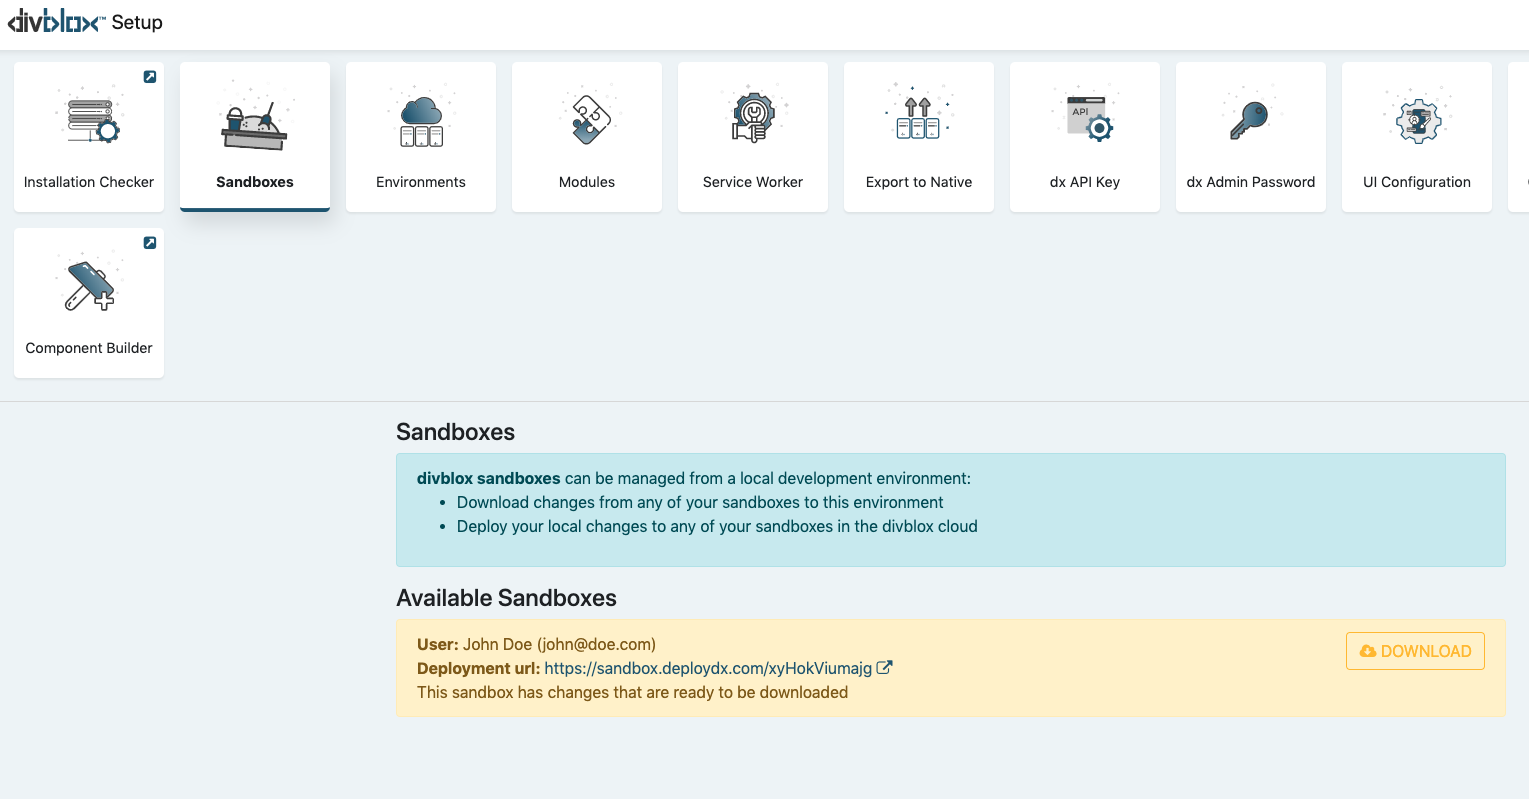
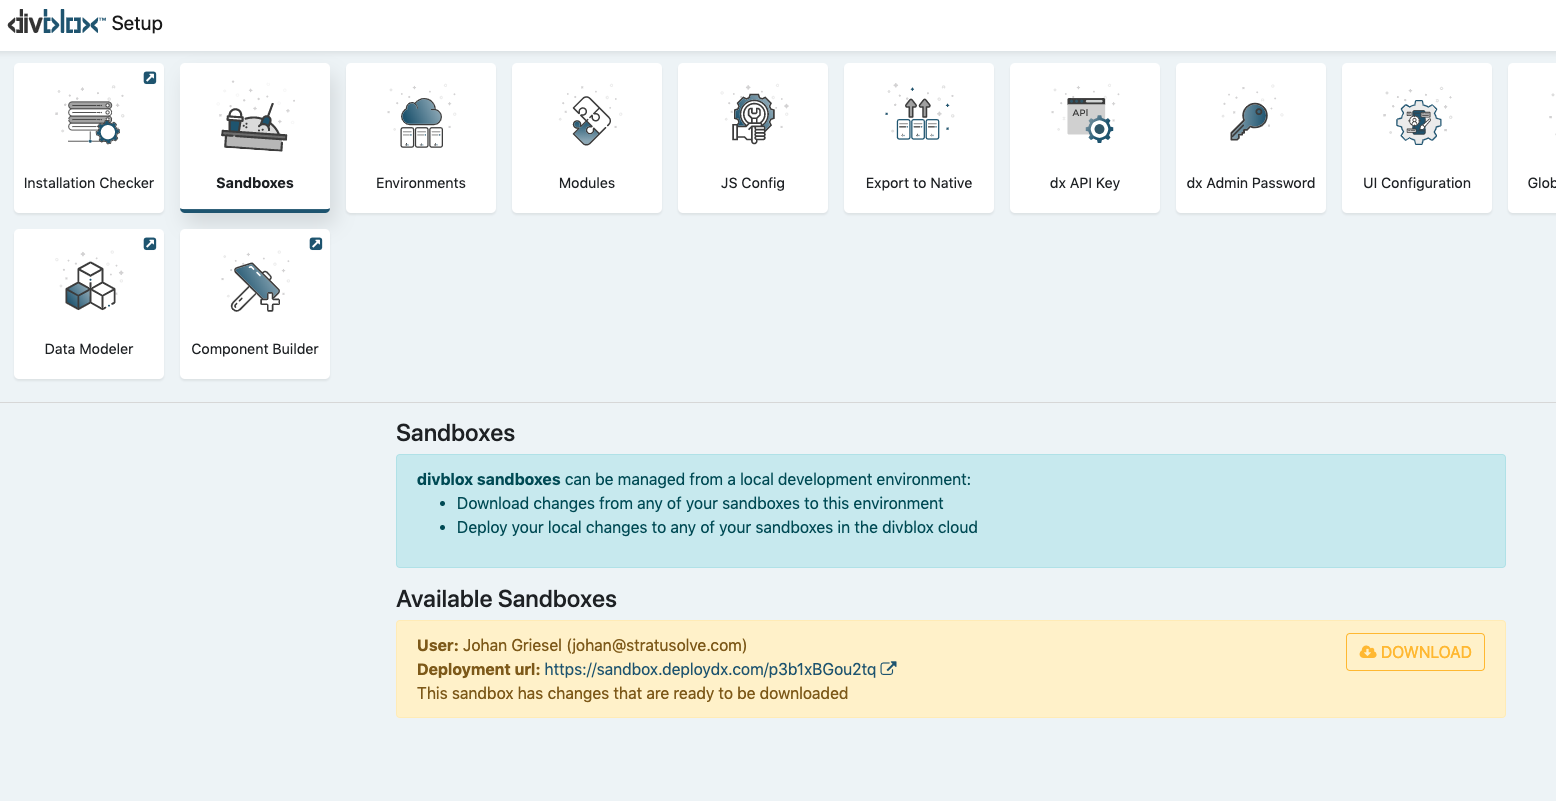
Updated assets

diff --git a/component-builder.md b/component-builder.md
@@ -128,7 +128,9 @@ class DivbloxDomBaseComponent {
 		this.component_success = false;
 		this.sub_component_definitions = {};
 		this.sub_component_objects = [];
+		this.sub_component_loaded_count = 0;
 		this.allowed_access_array = [];
+		this.is_loading = false;
 	}
 	loadPrerequisites(success_callback,fail_callback) {
 		if (typeof success_callback !== "function") {
@@ -139,7 +141,7 @@ class DivbloxDomBaseComponent {
 		}
 		success_callback();
 	}
-	on_component_loaded(confirm_success) {
+	on_component_loaded(confirm_success,callback) {
 		if (isNative()) {
 			if (!this.supports_native) {
 				this.handleComponentError("Component "+this.uid+" does not support native.");
@@ -154,9 +156,13 @@ class DivbloxDomBaseComponent {
 		if (typeof confirm_success === "undefined") {
 			confirm_success = true;
 		}
+		if (typeof callback !== "function") {
+			callback = function(){};
+		}
 		this.loadPrerequisites(function() {
+			callback();
 			dxCheckCurrentUserRole(this.allowed_access_array,function() {
-				this.handleComponentError("Access denied");
+				this.handleComponentAccessError("Access denied");
 			}.bind(this), function() {
 				if (confirm_success) {
 					this.handleComponentSuccess();
@@ -164,23 +170,39 @@ class DivbloxDomBaseComponent {
 				this.registerDomEvents();
 				this.initCustomFunctions();
 				// Load additional components here
-				let sub_component_definition_keys = Object.keys(this.sub_component_definitions);
-				sub_component_definition_keys.forEach(function(sub_component_definition_key) {
-					let sub_component_definition = this.sub_component_definitions[sub_component_definition_key];
-					loadComponent(sub_component_definition.component_load_path,this.uid,sub_component_definition.parent_element,sub_component_definition.loading_arguments,false,false,this.subComponentLoadedCallBack.bind(this));
-				}.bind(this));
-				this.reset();
+				this.loadSubComponent();
+				if (checkComponentBuilderActive()) {
+					setTimeout(function() {
+						//JGL: Some components might not remove their loading state if they do not receive
+						// initialization inputs. When we are in the component builder, we want to override this
+						if (this.is_loading) {
+							dxLog("Removing loading state if "+this.getComponentName()+" for component builder");
+							this.removeLoadingState();
+						}
+					}.bind(this),1000);
+				}
 			}.bind(this));
 		}.bind(this),function () {
 			this.handleComponentError("Error loading component dependencies");
 		}.bind(this));
 	}
 	reset(inputs) {
-		dxLog("Reset for "+this.getComponentName()+" not implemented");
+		this.resetSubComponents(inputs);
 	}
-	resetSubComponents() {
+	setLoadingState() {
+		this.is_loading = true;
+		$("#"+this.uid+"_ComponentContent").hide();
+		$("#"+this.uid+"_ComponentPlaceholder").show();
+		$("#"+this.uid+"_ComponentFeedback").html('');
+	}
+	removeLoadingState() {
+		this.is_loading = false;
+		$("#"+this.uid+"_ComponentContent").show();
+		$("#"+this.uid+"_ComponentPlaceholder").hide();
+	}
+	resetSubComponents(inputs) {
 		this.sub_component_objects.forEach(function(component) {
-			component.reset();
+			component.reset(inputs);
 		}.bind(this));
 	}
 	getReadyState() {
@@ -212,11 +234,24 @@ class DivbloxDomBaseComponent {
 			}
 		}
 	}
+	handleComponentAccessError(ErrorMessage) {
+		this.handleComponentError(ErrorMessage);
+	}
 	registerDomEvents() {/*To be overridden in sub class as needed*/}
 	initCustomFunctions() {/*To be overridden in sub class as needed*/}
 	subComponentLoadedCallBack(component) {
 		this.sub_component_objects.push(component);
+		this.sub_component_loaded_count++;
+		this.loadSubComponent();
 		// JGL: Override as needed
+	}
+	loadSubComponent() {
+		if (typeof this.sub_component_definitions[this.sub_component_loaded_count] !== "undefined") {
+			let sub_component_definition = this.sub_component_definitions[this.sub_component_loaded_count];
+			loadComponent(sub_component_definition.component_load_path,this.uid,sub_component_definition.parent_element,sub_component_definition.arguments,false,false,this.subComponentLoadedCallBack.bind(this));
+		} else {
+			this.reset();
+		}
 	}
 	getSubComponents() {
 		return this.sub_component_objects;

diff --git a/getting-started.md b/getting-started.md
@@ -174,16 +174,34 @@ This password is used to manage your divblox project and allows access to the se
 
 ![Admin password](_media/_screenshots/setup-configure-admin-password.png)
 
-## Service worker
+## JS Config
+The main configurable items for the divblox javascript engine can be configured from the JS Config setup block.
+![JS Config](_media/_screenshots/setup-js-config.png)
+
+### SPA Mode
+**Single Page Application mode** is ideal for apps that will function in multiple forms, from web, to progressive, to native. 
+divblox allows you to configure your web app to run as a single page application or as a normal web application. 
+When in SPA mode, divblox does open a new web page when loading a new page, but rather updates the DOM with the new page content.
+
+!>If you are building for web only, it is recommended to turn SPA mode off.
+
+### Service Worker
 divblox allows you to configure a service worker to handle and cache requests. You can decide to toggle it on or off. It is also sometimes useful to force the service worker to reload when assets are modified.
 
 !>When the service worker is on during development (debug), ensure that you have the option to "Update on reload" enabled in your browser.
 
 !>It is recommended to disable the service worker during development, since this can cause assets to be loaded from cache.
 
-![Service Worker](_media/_screenshots/setup-configure-service-worker.png)
+### Debug Mode
+Debug mode enables robust logging of your web application. This is useful when in development mode, but can slow down your app in production environments.
 
+!>It is recommended to turn debug mode off for production environments, but to keep it on in local/development environments.
 
+### Allow Feedback
+divblox allows you to toggle the project-wide feedback functionality on/off. When this is on, the user will always see a feedback button on the right of the screen.
+This will allow you to collect feature requests and bug reports for your pages.
+
+!>Feedback is stored at basecamp.divblox.com. This means that feedback is accessible project-wide, for any environment.
 
 
 
